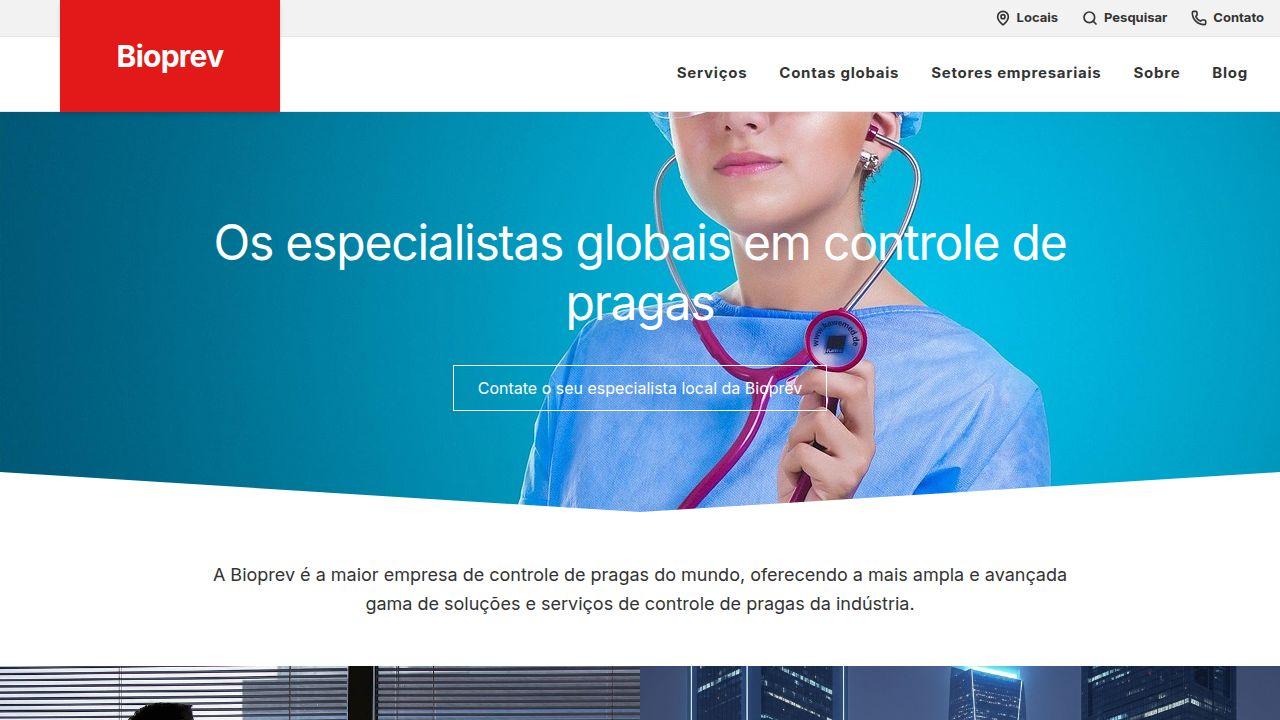
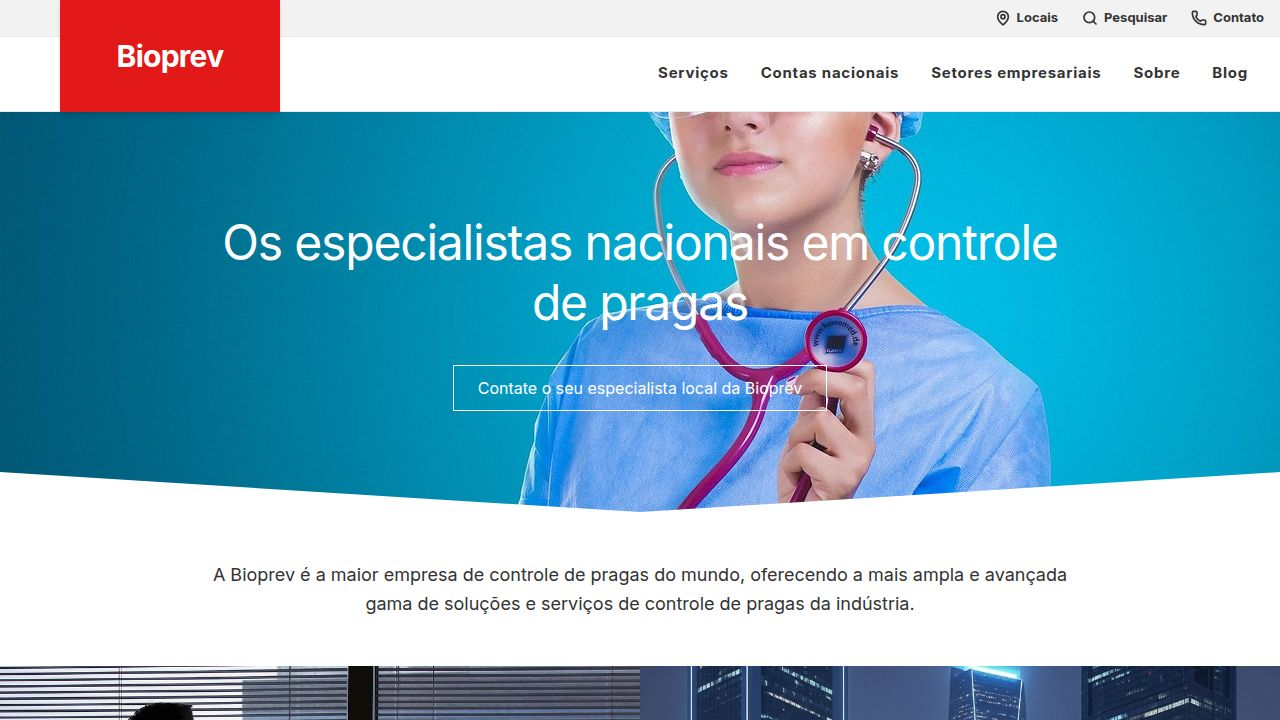
Update company branding from global to national focus
Replace all instances of "global" with "national" across the website to reflect the company's national scope. This includes text in components like Header, Hero, Expertise, Sectors, and various pages such as Home, AllServices, Disinfestation, and Pests.

Replit-Commit-Author: Agent
Replit-Commit-Session-Id: 88cfb2f1-3cfe-4bd4-a522-1f3af8561d95
Replit-Commit-Checkpoint-Type: full_checkpoint
Replit-Commit-Event-Id: 40d2e3bb-991a-4955-bc44-33347078d6cf
Replit-Commit-Screenshot-Url: https://storage.googleapis.com/screenshot-production-us-central1/d314b054-b12a-42b4-be4f-bdd75e03a28c/88cfb2f1-3cfe-4bd4-a522-1f3af8561d95/yOMp7kL
Replit-Helium-Checkpoint-Created: true

Changed region(s): [[0.1562, 0.3056, 0.8438, 0.4583], [0.5, 0.0917, 0.6875, 0.1222]]

diff --git a/client/src/pages/services/AllServices.tsx b/client/src/pages/services/AllServices.tsx
@@ -45,11 +45,11 @@ export default function AllServices() {
               </nav>
               
               <h1 className="text-white text-5xl md:text-6xl font-medium mb-8 leading-tight">
-                Serviços globais de controle de pragas<br />e soluções
+                Serviços nacionais de controle de pragas<br />e soluções
               </h1>
               
               <p className="text-white text-xl md:text-[22px] max-w-3xl mb-12 leading-relaxed font-light">
-                Como líder global em soluções de higiene e controle de pragas, a Bioprev leva serviços especializados, fiáveis e profissionais a clientes comerciais em todo o mundo.
+                Como líder nacional em soluções de higiene e controle de pragas, a Bioprev leva serviços especializados, fiáveis e profissionais a clientes comerciais em todo o país.
               </p>
               
               <Button 
@@ -76,7 +76,7 @@ export default function AllServices() {
               A Bioprev protege pessoas, residências e empresas dos perigos da falta de higiene e de doenças transmitidas por pragas há 100 anos.
             </p>
             <p className="text-[#666666] text-base mb-16 leading-relaxed">
-              Acreditamos que a inovação é um fator-chave para o sucesso. O nosso <span className="text-[#007cc3] cursor-pointer hover:underline">centro global de pesquisa e desenvolvimento</span> fornece aos nossos colegas da linha de frente as ferramentas e soluções de que necessitam para prestar <span className="text-[#007cc3] cursor-pointer hover:underline">serviços diferenciados de controle de pragas</span>. A Bioprev está comprometida com a <span className="text-[#007cc3] cursor-pointer hover:underline">sustentabilidade</span> e em explorar o uso de soluções mais ecológicas e não tóxicas, ao mesmo tempo em que continua a oferecer aos nossos clientes os altos níveis de proteção contra pragas de que os seus negócios necessitam.
+              Acreditamos que a inovação é um fator-chave para o sucesso. O nosso <span className="text-[#007cc3] cursor-pointer hover:underline">centro nacional de pesquisa e desenvolvimento</span> fornece aos nossos colegas da linha de frente as ferramentas e soluções de que necessitam para prestar <span className="text-[#007cc3] cursor-pointer hover:underline">serviços diferenciados de controle de pragas</span>. A Bioprev está comprometida com a <span className="text-[#007cc3] cursor-pointer hover:underline">sustentabilidade</span> e em explorar o uso de soluções mais ecológicas e não tóxicas, ao mesmo tempo em que continua a oferecer aos nossos clientes os altos níveis de proteção contra pragas de que os seus negócios necessitam.
             </p>
             
             <h2 className="text-3xl md:text-[40px] font-medium text-[#333333] mb-8 leading-tight">
@@ -102,7 +102,7 @@ export default function AllServices() {
               <div className="bg-white border-t-4 border-[#e31837] shadow-xl p-10">
                 <h3 className="text-2xl md:text-[28px] font-medium text-[#333333] mb-6">Serviços de controle de pragas</h3>
                 <p className="text-[#666666] leading-relaxed mb-8">
-                  A Bioprev é líder global no controle de pragas comerciais. Oferecemos uma gama de tratamentos direcionados e inovadores e soluções de impermeabilização para garantir que o seu negócio fique livre de pragas.
+                  A Bioprev é líder nacional no controle de pragas comerciais. Oferecemos uma gama de tratamentos direcionados e inovadores e soluções de impermeabilização para garantir que o seu negócio fique livre de pragas.
                 </p>
                 <button className="text-[#007cc3] font-medium border border-[#007cc3] px-6 py-2 hover:bg-[#007cc3] hover:text-white transition-all">
                   Saiba mais
@@ -290,7 +290,7 @@ export default function AllServices() {
             <div className="space-y-3">
               <a href="#" className="block text-[#666666] hover:text-[#007cc3] text-sm font-medium">Início</a>
               <a href="/services" className="block text-[#666666] hover:text-[#007cc3] text-sm font-medium">Serviços</a>
-              <a href="#" className="block text-[#666666] hover:text-[#007cc3] text-sm font-medium">Contas globais</a>
+              <a href="#" className="block text-[#666666] hover:text-[#007cc3] text-sm font-medium">Contas nacionais</a>
               <a href="#" className="block text-[#666666] hover:text-[#007cc3] text-sm font-medium">Setores empresariais</a>
               <a href="#" className="block text-[#666666] hover:text-[#007cc3] text-sm font-medium">Sobre</a>
               <a href="#" className="block text-[#666666] hover:text-[#007cc3] text-sm font-medium">Blog</a>

diff --git a/client/src/pages/services/Disinfestation.tsx b/client/src/pages/services/Disinfestation.tsx
@@ -51,7 +51,7 @@ export default function Disinfestation() {
               </h1>
               
               <p className="text-white text-xl md:text-[22px] max-w-3xl mb-12 leading-relaxed font-light">
-                Como líder global em soluções de higiene, a Bioprev oferece serviços de desinfecção especializados, fiáveis e profissionais a clientes comerciais em todo o mundo.
+                Como líder nacional em soluções de higiene, a Bioprev oferece serviços de desinfecção especializados, fiáveis e profissionais a clientes comerciais em todo o país.
               </p>
               
               <Button 
@@ -78,7 +78,7 @@ export default function Disinfestation() {
               A Bioprev protege pessoas, residências e empresas dos perigos da falta de higiene e de doenças infecciosas há 100 anos.
             </p>
             <p className="text-[#666666] text-base mb-16 leading-relaxed">
-              Acreditamos que a inovação é um fator-chave para o sucesso. O nosso <span className="text-[#007cc3] cursor-pointer hover:underline">centro global de pesquisa e desenvolvimento</span> fornece aos nossos colegas da linha de frente as ferramentas e soluções de que necessitam para fornecer <span className="text-[#007cc3] cursor-pointer hover:underline">serviços de desinfecção diferenciados</span>. A Bioprev está comprometida com a <span className="text-[#007cc3] cursor-pointer hover:underline">sustentabilidade</span> e em explorar o uso de soluções mais ecológicas e não tóxicas, ao mesmo tempo em que continua a oferecer aos nossos clientes os altos níveis de proteção que as suas empresas necessitam.
+              Acreditamos que a inovação é um fator-chave para o sucesso. O nosso <span className="text-[#007cc3] cursor-pointer hover:underline">centro nacional de pesquisa e desenvolvimento</span> fornece aos nossos colegas da linha de frente as ferramentas e soluções de que necessitam para fornecer <span className="text-[#007cc3] cursor-pointer hover:underline">serviços de desinfecção diferenciados</span>. A Bioprev está comprometida com a <span className="text-[#007cc3] cursor-pointer hover:underline">sustentabilidade</span> e em explorar o uso de soluções mais ecológicas e não tóxicas, ao mesmo tempo em que continua a oferecer aos nossos clientes os altos níveis de proteção que as suas empresas necessitam.
             </p>
             
             <h2 className="text-3xl md:text-[40px] font-medium text-[#333333] mb-8 leading-tight">
@@ -291,7 +291,7 @@ export default function Disinfestation() {
             <div className="space-y-3">
               <a href="#" className="block text-[#666666] hover:text-[#007cc3] text-sm font-medium">Início</a>
               <a href="/services" className="block text-[#666666] hover:text-[#007cc3] text-sm font-medium">Serviços</a>
-              <a href="#" className="block text-[#666666] hover:text-[#007cc3] text-sm font-medium">Contas globais</a>
+              <a href="#" className="block text-[#666666] hover:text-[#007cc3] text-sm font-medium">Contas nacionais</a>
               <a href="#" className="block text-[#666666] hover:text-[#007cc3] text-sm font-medium">Setores empresariais</a>
               <a href="#" className="block text-[#666666] hover:text-[#007cc3] text-sm font-medium">Sobre</a>
               <a href="#" className="block text-[#666666] hover:text-[#007cc3] text-sm font-medium">Blog</a>

diff --git a/client/src/components/home/Expertise.tsx b/client/src/components/home/Expertise.tsx
@@ -44,8 +44,8 @@ export default function Expertise() {
 
   const cards = [
     {
-      title: "Global mas local",
-      description: "Estamos em todos os lugares, atendendo a mais locais do que qualquer outro provedor de controle de pragas, combinando nosso legado de 100 anos com experiência local em 1.800 equipes em todo o mundo.",
+      title: "Nacional mas local",
+      description: "Estamos em todos os lugares, atendendo a mais locais do que qualquer outro provedor de controle de pragas, combinando nossa experiência com equipes locais em todo o país.",
       icon: <Globe className="w-12 h-12 text-[#333333] stroke-[1px]" />,
     },
     {
@@ -55,7 +55,7 @@ export default function Expertise() {
     },
     {
       title: "Uma equipe, um contato",
-      description: "A nossa Equipa de Gestão de Contas Globais fornece serviços personalizados e um ponto de contacto único dedicado, garantindo uma experiência de gestão de pragas consistente e sem esforço em toda a sua propriedade.",
+      description: "A nossa Equipa de Gestão de Contas Nacionais fornece serviços personalizados e um ponto de contacto único dedicado, garantindo uma experiência de gestão de pragas consistente e sem esforço em toda a sua propriedade.",
       icon: <Users className="w-12 h-12 text-[#333333] stroke-[1px]" />,
     },
   ];
@@ -64,10 +64,10 @@ export default function Expertise() {
     <section className="py-20 bg-white">
       <div className="container mx-auto px-4 max-w-6xl text-center mb-16">
         <h2 className="text-3xl md:text-[32px] font-medium text-[#333333] mb-8 leading-tight">
-          Capacitando multinacionais com experiência global em controle de pragas
+          Capacitando empresas com experiência nacional em controle de pragas
         </h2>
         <p className="text-[#333333] max-w-4xl mx-auto leading-relaxed text-[16px]">
-          Na Bioprev, trazemos um mundo de excelência no controlo de pragas, protegendo empresas em 90 países com a nossa experiência incomparável e soluções inovadoras. Veja por que você prosperará em parceria com a nossa <span className="text-[#007cc3] font-bold cursor-pointer hover:underline">Equipa de Gestão de Contas Globais.</span>
+          Na Bioprev, trazemos excelência no controlo de pragas, protegendo empresas em todo o país com a nossa experiência incomparável e soluções inovadoras. Veja por que você prosperará em parceria com a nossa <span className="text-[#007cc3] font-bold cursor-pointer hover:underline">Equipa de Gestão de Contas Nacionais.</span>
         </p>
       </div>
 

diff --git a/client/src/components/home/Sectors.tsx b/client/src/components/home/Sectors.tsx
@@ -13,10 +13,10 @@ export default function Sectors() {
     <section className="py-20 bg-[#f2f4f6]">
       <div className="container mx-auto px-4 max-w-6xl text-center mb-16">
         <h2 className="text-3xl md:text-[32px] font-medium text-[#333333] mb-8 leading-tight">
-          Líderes globais em serviços personalizados de controle de pragas
+          Líderes nacionais em serviços personalizados de controle de pragas
         </h2>
         <p className="text-[#333333] max-w-4xl mx-auto leading-relaxed text-[16px]">
-          A Bioprev é líder global em <span className="text-[#007cc3] cursor-pointer hover:underline">controle de pragas</span> e <span className="text-[#007cc3] cursor-pointer hover:underline">serviços especializados de desinfecção</span>, atendendo a diversos setores, como <span className="text-[#007cc3] font-bold cursor-pointer hover:underline">Processamento de Alimentos</span>, <span className="text-[#007cc3] font-bold cursor-pointer hover:underline">Logística</span>, <span className="text-[#007cc3] font-bold cursor-pointer hover:underline">Gestão de Instalações</span> e <span className="text-[#007cc3] font-bold cursor-pointer hover:underline">muito mais</span> em todo o mundo — seja nosso parceiro para experiência global em controle de pragas adaptada à sua indústria.
+          A Bioprev é líder nacional em <span className="text-[#007cc3] cursor-pointer hover:underline">controle de pragas</span> e <span className="text-[#007cc3] cursor-pointer hover:underline">serviços especializados de desinfecção</span>, atendendo a diversos setores, como <span className="text-[#007cc3] font-bold cursor-pointer hover:underline">Processamento de Alimentos</span>, <span className="text-[#007cc3] font-bold cursor-pointer hover:underline">Logística</span>, <span className="text-[#007cc3] font-bold cursor-pointer hover:underline">Gestão de Instalações</span> e <span className="text-[#007cc3] font-bold cursor-pointer hover:underline">muito mais</span> em todo o país — seja nosso parceiro para experiência nacional em controle de pragas adaptada à sua indústria.
         </p>
       </div>
 

diff --git a/client/src/pages/blog/BlogList.tsx b/client/src/pages/blog/BlogList.tsx
@@ -102,7 +102,7 @@ export default function BlogList() {
             <div className="space-y-3">
               <Link href="/"><span className="block text-[#666666] hover:text-[#007cc3] text-sm font-medium cursor-pointer">Início</span></Link>
               <Link href="/services"><span className="block text-[#666666] hover:text-[#007cc3] text-sm font-medium cursor-pointer">Serviços</span></Link>
-              <a href="#" className="block text-[#666666] hover:text-[#007cc3] text-sm font-medium">Contas globais</a>
+              <a href="#" className="block text-[#666666] hover:text-[#007cc3] text-sm font-medium">Contas nacionais</a>
               <a href="#" className="block text-[#666666] hover:text-[#007cc3] text-sm font-medium">Setores de negócios</a>
               <a href="#" className="block text-[#666666] hover:text-[#007cc3] text-sm font-medium">Sobre</a>
               <Link href="/blog"><span className="block text-[#666666] hover:text-[#007cc3] text-sm font-medium cursor-pointer">Blog</span></Link>

diff --git a/client/src/pages/blog/BlogPost.tsx b/client/src/pages/blog/BlogPost.tsx
@@ -150,7 +150,7 @@ export default function BlogPost() {
             <div className="space-y-3">
               <Link href="/"><span className="block text-[#666666] hover:text-[#007cc3] text-sm font-medium cursor-pointer">Início</span></Link>
               <Link href="/services"><span className="block text-[#666666] hover:text-[#007cc3] text-sm font-medium cursor-pointer">Serviços</span></Link>
-              <a href="#" className="block text-[#666666] hover:text-[#007cc3] text-sm font-medium">Contas globais</a>
+              <a href="#" className="block text-[#666666] hover:text-[#007cc3] text-sm font-medium">Contas nacionais</a>
               <a href="#" className="block text-[#666666] hover:text-[#007cc3] text-sm font-medium">Setores de negócios</a>
               <a href="#" className="block text-[#666666] hover:text-[#007cc3] text-sm font-medium">Sobre</a>
               <Link href="/blog"><span className="block text-[#666666] hover:text-[#007cc3] text-sm font-medium cursor-pointer">Blog</span></Link>

diff --git a/client/src/pages/services/Pests.tsx b/client/src/pages/services/Pests.tsx
@@ -158,7 +158,7 @@ export default function Pests() {
             <div className="space-y-3">
               <a href="#" className="block text-[#666666] hover:text-[#007cc3] text-sm font-medium">Início</a>
               <a href="/services" className="block text-[#666666] hover:text-[#007cc3] text-sm font-medium">Serviços</a>
-              <a href="#" className="block text-[#666666] hover:text-[#007cc3] text-sm font-medium">Contas globais</a>
+              <a href="#" className="block text-[#666666] hover:text-[#007cc3] text-sm font-medium">Contas nacionais</a>
               <a href="#" className="block text-[#666666] hover:text-[#007cc3] text-sm font-medium">Setores empresariais</a>
               <a href="#" className="block text-[#666666] hover:text-[#007cc3] text-sm font-medium">Sobre</a>
               <a href="#" className="block text-[#666666] hover:text-[#007cc3] text-sm font-medium">Blog</a>

diff --git a/client/src/pages/Home.tsx b/client/src/pages/Home.tsx
@@ -44,7 +44,7 @@ export default function Home() {
             <div className="space-y-3">
               <a href="#" className="block text-[#666666] hover:text-[#007cc3] text-sm font-medium">Início</a>
               <a href="#" className="block text-[#666666] hover:text-[#007cc3] text-sm font-medium">Serviços</a>
-              <a href="#" className="block text-[#666666] hover:text-[#007cc3] text-sm font-medium">Contas globais</a>
+              <a href="#" className="block text-[#666666] hover:text-[#007cc3] text-sm font-medium">Contas nacionais</a>
               <a href="#" className="block text-[#666666] hover:text-[#007cc3] text-sm font-medium">Setores de negócios</a>
               <a href="#" className="block text-[#666666] hover:text-[#007cc3] text-sm font-medium">Sobre</a>
               <a href="#" className="block text-[#666666] hover:text-[#007cc3] text-sm font-medium">Blog</a>

diff --git a/client/src/components/home/Hero.tsx b/client/src/components/home/Hero.tsx
@@ -15,7 +15,7 @@ export default function Hero() {
         {/* Content */}
         <div className="relative h-full container mx-auto px-4 flex flex-col items-center justify-center text-center">
           <h1 className="text-4xl md:text-5xl font-normal text-white mb-8 max-w-4xl leading-tight" data-testid="text-hero-title">
-            Os especialistas globais em controle de pragas
+            Os especialistas nacionais em controle de pragas
           </h1>
           
           <div className="flex justify-center w-full">

diff --git a/client/src/components/layout/Header.tsx b/client/src/components/layout/Header.tsx
@@ -42,11 +42,11 @@ export default function Header() {
     },
     {
       id: 'global',
-      label: 'Contas globais',
+      label: 'Contas nacionais',
       testId: 'nav-global',
       content: [
         { icon: Globe, text: 'Visão\ngeral' },
-        { icon: Target, text: 'Soluções\nglobais' },
+        { icon: Target, text: 'Soluções\nnacionais' },
       ]
     },
     {
